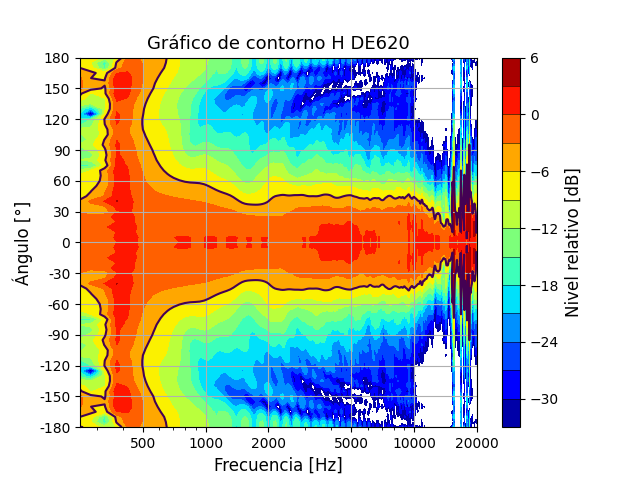
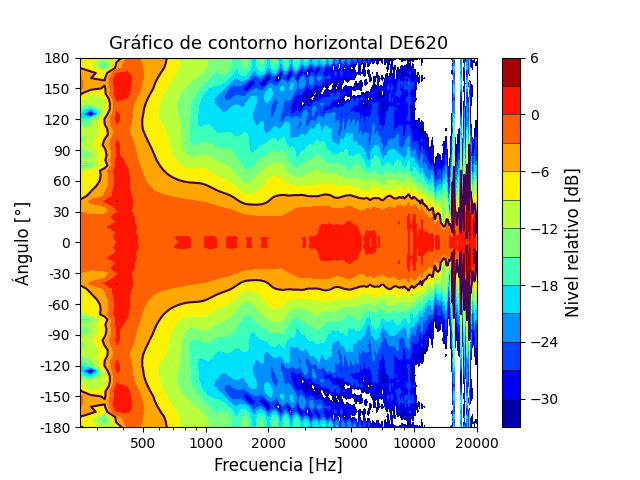
Sigue yendo

diff --git a/cod_1.py b/cod_1.py
@@ -2,24 +2,25 @@
 import numpy as np
 import pandas as pd
 import matplotlib.pyplot as plt
-import matplotlib.colors as col
-from matplotlib import cm
 
 
 # Funciones
 
 
-def matriz_impulsos(orientacion="H"):
+def matriz_impulsos(orientacion="H", graficar='', guardar_img=''):
     """
-    Esta función obtiene los distintos impulsos de los archivos .csv, los convierte en un vector "tiempo"
-    y una matriz "impulsos" compuesta por vectores que son los valores a distintos ángulos. También aplica
-    una FFT a dicha matriz, creando otra "imp_fft" y su vector del eje frecuencial.
+    Esta función obtiene los distintos impulsos de los archivos .csv, previamente exportados desde el ARTA
+    y los convierte en un vector "tiempo" y una matriz "impulsos" compuesta por vectores que son los valores
+    a distintos ángulos. También aplica una FFT a dicha matriz, creando otra "imp_fft" y su vector del eje
+    frecuencial.
     :param orientacion: Para eje horizontal, "H" o "h" (predeterminado). Para eje vertical, "V" o "v".
-    :return: Guarda en la carpeta una imagen de contorno de formato .png.
+    :param graficar: Poner 'Si' si desea graficar en la ejecución del código.
+    :param guardar_img: Poner 'Si' si desea guardar la imagen en la carpeta.
+    :return: Vector eje temporal, matriz de impulsos, vector eje frecuencial, matriz impulsos pasados por FFT.
     """
 
     # Definición de variables
-    global eje
+    eje = 'horizontal'
     array_conteo = np.linspace(0, 180, num=37, dtype=int)  # Vector de ángulos
     impulsos = np.array(np.zeros([73, 195]), dtype=object)  # Vector vacío para impulsos
     imp_fft = np.array(np.zeros([73, 513]), dtype=object)  # Vector vacío para impulsos pasados por fft
@@ -27,7 +28,6 @@ def matriz_impulsos(orientacion="H"):
     N = 1024
     for i in range(len(array_conteo)):  # Elige eje horizontal o vertical. Por defecto, horizontal
         if orientacion == "H" or orientacion == "h":
-            eje = 'horizontal'
             archivo = pd.read_csv("Archivos/de620me90_hor_deg{:.0f}.csv".format(array_conteo[i]), header=None)
         elif orientacion == "V" or orientacion == "v":
             eje = 'vertical'
@@ -40,12 +40,12 @@ def matriz_impulsos(orientacion="H"):
         archivo2 = archivo2.astype(float)
         archivo3 = archivo2[293:488, 1]  # Ventaneo eligiendo sólo las muestras que quiero
         # (desde 6.125 ms durante 4.063 ms)
+        # Ventaneo: 195 muestras; R = 48000 HZ / 195 muestras = 246.15 Hz frec mínima
         if i == 0:
             tiempo = archivo2[294:489, 0]  # Definición vector tiempo con mismo ventaneo
             impulsos[36] = archivo3  # Definición matriz "impulsos" para ángulo 0
             imp_fft_ceros = np.hstack([archivo3, np.zeros(415)])
             imp_fft[36] = 20 * np.log10(abs(np.fft.rfft(imp_fft_ceros, N)))
-
         else:
             impulsos[i + 36] = archivo3  # Definición matriz "impulsos" para ángulos positivos
             impulsos[36 - i] = archivo3  # Definición matriz "impulsos" para ángulos negativos
@@ -55,16 +55,15 @@ def matriz_impulsos(orientacion="H"):
         del archivo
         del archivo2
         del archivo3
-    f = np.linspace(0, 24000, len(imp_fft[0]))
-    tiempo = tiempo*1000
-    imp_fft[36] = imp_fft[36]-imp_fft[36]
+    frecuencias = np.linspace(0, 24000, len(imp_fft[0]))
+    tiempo = tiempo*1000  # Para pasar a milisegundos
+    imp_fft[36] = imp_fft[36]-imp_fft[36]  # Normalizo a valores de 0°
 
     plt.figure()
-    contorno_x = f
-    contorno_y = np.linspace(-180, 180, 73, dtype=int)
+    angulos = np.linspace(-180, 180, 73, dtype=int)
     levels = [-33, -30, -27, -24, -21, -18, -15, -12, -9, -6, -3, 0, 3, 6]
-    plt.contour(contorno_x, contorno_y, imp_fft, levels=[-6])
-    plt.contourf(contorno_x, contorno_y, imp_fft, levels, cmap='jet')
+    plt.contour(frecuencias, angulos, imp_fft, levels=[-6])
+    plt.contourf(frecuencias, angulos, imp_fft, levels, cmap='jet')
     plt.gca().set_xscale('log')
     ticksx = [500, 1000, 2000, 5000, 10000, 20000]
     ticksy = [-180, -150, -120, -90, -60, -30, 0, 30, 60, 90, 120, 150, 180]
@@ -73,20 +72,23 @@ def matriz_impulsos(orientacion="H"):
     plt.yticks(ticksy, ticksy)
     cbar = plt.colorbar(drawedges='True')
     cbar.set_label('Nivel relativo [dB]', fontsize=12)
-    plt.title(f'Gráfico de contorno {orientacion} DE620', fontsize=13)
+    plt.title(f'Gráfico de contorno {eje} DE620', fontsize=13)
     plt.xlabel('Frecuencia [Hz]', fontsize=12)
     plt.ylabel('Ángulo [°]', fontsize=12)
-    plt.grid()
-    plt.savefig(f'Contorno eje {eje} DE620-8 con ME90.png')
+    # plt.grid()
+    if guardar_img == "si" or guardar_img == "Si" or guardar_img == "SI":
+        plt.savefig(f'Contorno eje {eje} DE620-8 con ME90.png')
+    if graficar == "si" or graficar == "Si" or graficar == "SI":
+        plt.show()
 
-    # return tiempo, impulsos, freq, imp_fft
+    return tiempo, impulsos, frecuencias, imp_fft
 
 
-matriz_impulsos()
-matriz_impulsos(orientacion='v')
 
 
-"""
-Ventaneo: 195 muestras
-R = 48000 HZ / 195 muestras = 246.15 Hz frec mínima
-"""
+
+# Ejecución de función
+matriz_impulsos(guardar_img='si')
+matriz_impulsos(orientacion='v', guardar_img='si')
+
+

diff --git a/cod_2.py b/cod_2.py
@@ -29,7 +29,7 @@ import soundfile as sf
 from scipy import signal
 import matplotlib.pyplot as plt
 
-cal, fs = sf.read('Archivos/med_calibración.wav')  # importo senal de calibracion y su frecuencia de muestreo
+cal, fs = sf.read('Archivos/med_calibracion.wav')  # importo senal de calibracion y su frecuencia de muestreo
 ruido, fs2 = sf.read('Archivos/med_ruido.wav')  # importo ruido de fondo y su frecuencia de muestreo
 
 rms = np.sqrt(sum(cal**2)/len(cal))   # calculo valor RMS de señal calibracion
@@ -57,7 +57,7 @@ for i in range(len(K)):
 Wn = [fmin, fmax]
 SPL = []  # vector que acumula el nivel SPL de cada banda
 
-plt.figure(figsize=(6, 4))
+# plt.figure(figsize=(6, 4))
 for i in range(0, len(K)):
     sos = signal.butter(6, (Wn[0][i], Wn[1][i]), btype='bandpass', output='sos')  # se obtiene un vector
     # con los coeficientes a_i y b_i de H(z)
@@ -74,17 +74,17 @@ for i in range(0, len(K)):
 fcentral = [500, 630, 800, 1000, 1250, 1600, 2000, 2500, 3150, 4000, 5000, 6300, 8000,
               10000, 12500, 16000]
     
-xlabels = ['500', '630','800', '1000', '1250', '1600', '2000', '2500', '3150', '4000', '5000', '6300', '8000',
+xlabels = ['500', '630', '800', '1000', '1250', '1600', '2000', '2500', '3150', '4000', '5000', '6300', '8000',
               '10000', '12500', '16000']
 
 plt.xticks(fcentral, xlabels, rotation=70, fontsize=10)
-plt.xlim(500, 16000)
+plt.xlim(500, 20000)
 plt.ylim(-10, 0.5)
 plt.xlabel(r'$Frecuencia\ (Hz)$', fontsize=15)
 plt.ylabel(r'$Magnitud\ (dB)$', fontsize=15)
 plt.tick_params(axis='y', labelsize=20)
 plt.grid()
-plt.savefig('rta_filtros.png',)    
+plt.savefig('rta_filtros.png')
 
 bandas = np.arange(0, len(N), 1)
 
